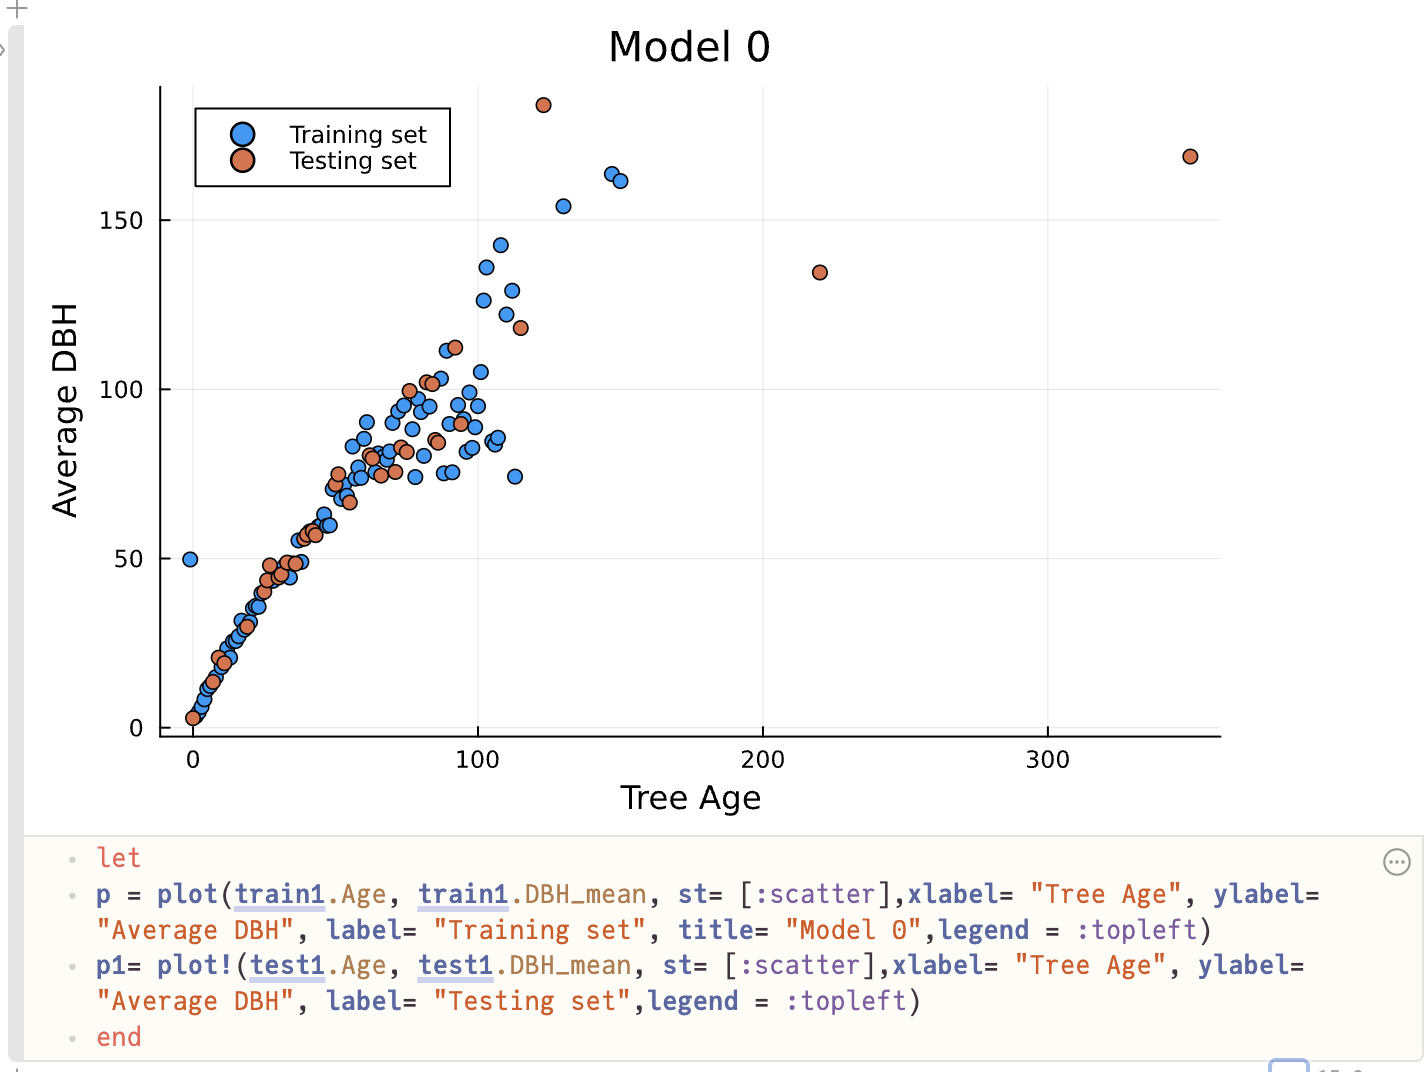
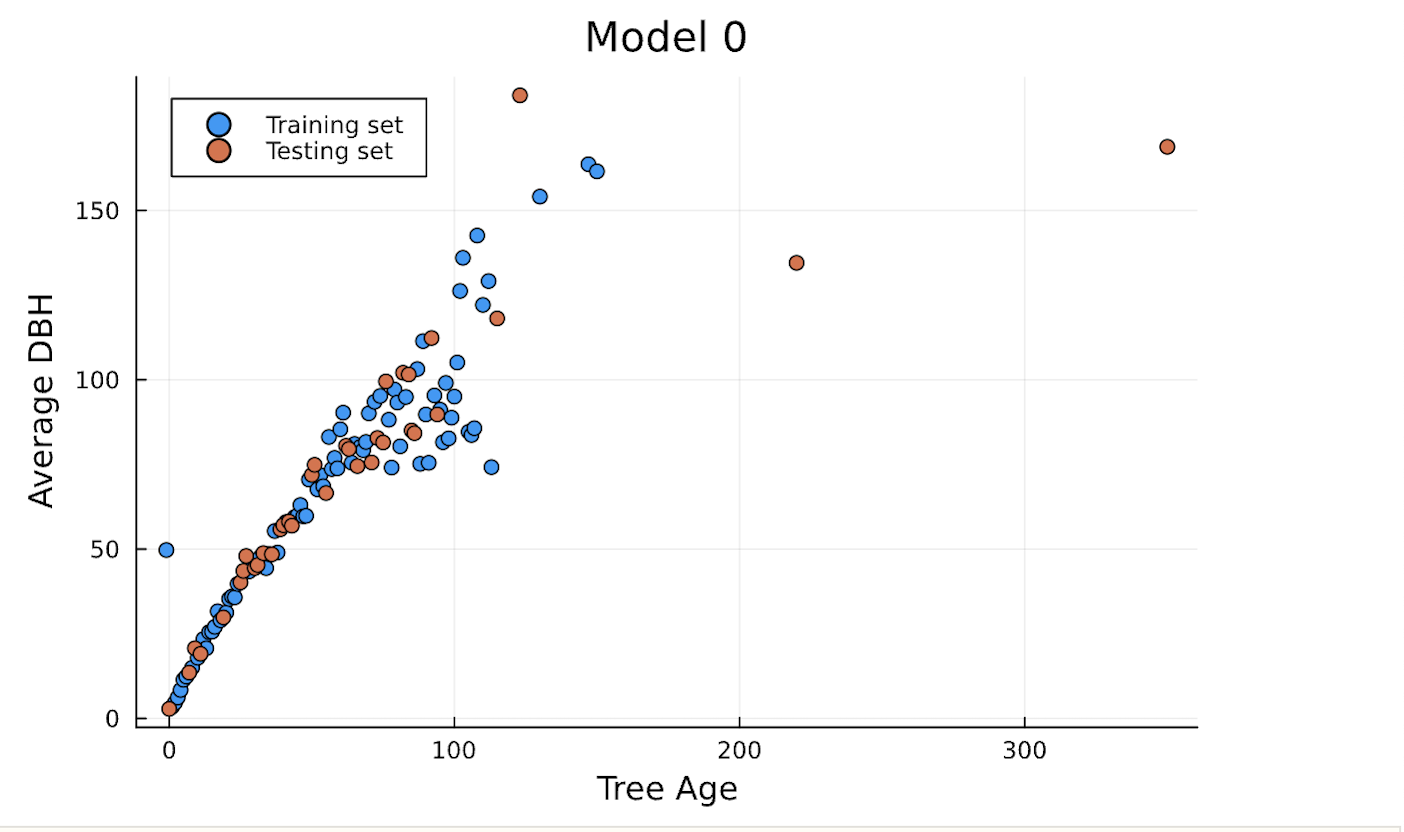
reg_05

diff --git a/content/05. Prediction.md b/content/05. Prediction.md
@@ -1,4 +1,4 @@
-## Predictive Modeling Section
+## Predictive Modeling
 
 Based on some of the above correlations and supporting evidence from the US Forest Service Research Archives [2], there are strong correlation between diameter at breast heights (dbh) and tree age, tree height, leaf area, crown height, and average crown diameter. 
 Therefore, several predictive models using 3 different machine learning techniques were explored to select the most suitable model to predict (dbh) based on the aforementioned variables. Those techniques include (1) decision-tree algorism, (2) regression, and (3) neural networks. To enable a reliable performance evaluation procedure, the collected data was divided into two separate datasets for each developed predictive model: (1) training dataset that includes 70% of all the available data that will be used in developing the model, and (2) testing dataset that includes 30% of all available data that will be used for evaluating the performance of the developed model. The following three sections provide a detailed description of these aforementioned 3 machine learning techniques.
@@ -23,7 +23,7 @@ With each addition of independent variables, the mean coefficient of determinati
 
 This technique depends on developing multiple linear regression model between the dependent variable and independent variables. Starting with a simple regression model that include only one independent variable (tree age) to predict the dependent variable (average dbh). The predictive formula is used to calculate the coefficient of determination, Root Mean Square Error (RMSE), and model accuracy. As shown in Figure @fig:Reg_model1, the model achieved R squared of 74%, Root Mean Square Error (RMSE) of 21.12, and accuracy of 12.4%. 
 
-![Predictive Model using one independent variable](images\Reg_model1.png){#fig:Reg_model1 width=5in}
+![Predictive Model using one independent variable](images/Reg_Model1.png){#fig:Reg_model1 width=7in}
 
 Further investigation was performed to determine why the accuracy is low. After plotting average dbh in y-axis and age in the x-axis for training and testing datasets. Two data points were determined to be outliers, as shown in Figure @fig:Reg_model1_plot)
 
@@ -31,18 +31,18 @@ Further investigation was performed to determine why the accuracy is low. After 
 
 The second model was performed using the same dependent and independent variables after excluding outliers’ data point. The model achieved R squared of 88%, RMSE of 10.91, and accuracy of 87%, as shown in Figure @fig:ig:Reg_Model2
 
-![Predictive Model after Deleting Outliers](images\Reg_Model2.png){#fig:Reg_Model2 width=5in}
+![Predictive Model after Deleting Outliers](images\Reg_Model2.png){#fig:Reg_Model2 width=7in}
 
 The third model was performed using two independent variables: tree age and average tree height. The model achieved R squared of 94%, RMSE of 8.08, and accuracy of 92%, as shown in Figure @fig:ig:Reg_Model3
 
-![Predictive Model Using 2 Independent Variables](images\Reg_Model3.png){#fig:Reg_Model3 width=5in}
+![Predictive Model Using 2 Independent Variables](images\Reg_Model3.png){#fig:Reg_Model3 width=7in}
 
 The fourth model was performed using three independent variables: tree age, average tree height, and average leaf area. The model achieved R squared of 95%, RMSE of 9.01, and accuracy of 92%, as shown in Figure @fig:ig:Reg_Model4
 
-![Predictive Model Using 3 Independent Variables](images\Reg_Model4.png){#fig:Reg_Model4 width=5in}
+![Predictive Model Using 3 Independent Variables](images\Reg_Model4.png){#fig:Reg_Model4 width=7in}
 
 The fifth model was performed using four independent variables: tree age, average tree height, average leaf area, and average crown diameter. The model achieved R squared of 93%, RMSE of 7, and accuracy of 94.5%, as shown in Figure @fig:ig:Reg_Model5
 
-![Predictive Model Using 4 Independent Variables](images\Reg_Model5.png){#fig:Reg_Model5 width=5in}
+![Predictive Model Using 4 Independent Variables](images\Reg_Model5.png){#fig:Reg_Model5 width=7in}
 
 Based on the above analysis, the best model that achieved the lowest RMSE and highest accuracy is model 5.
